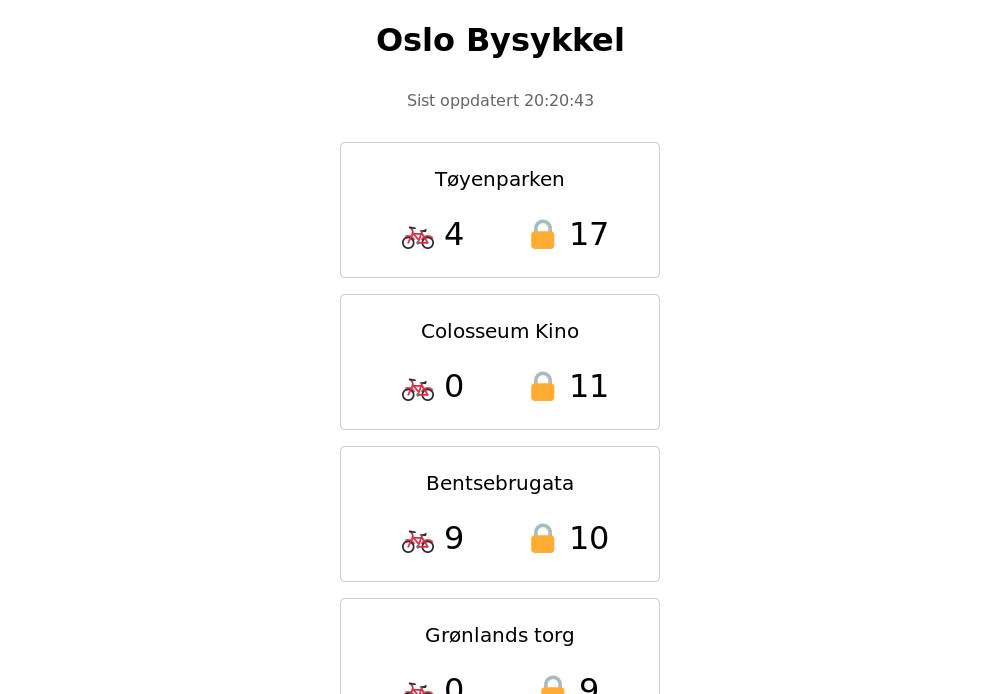
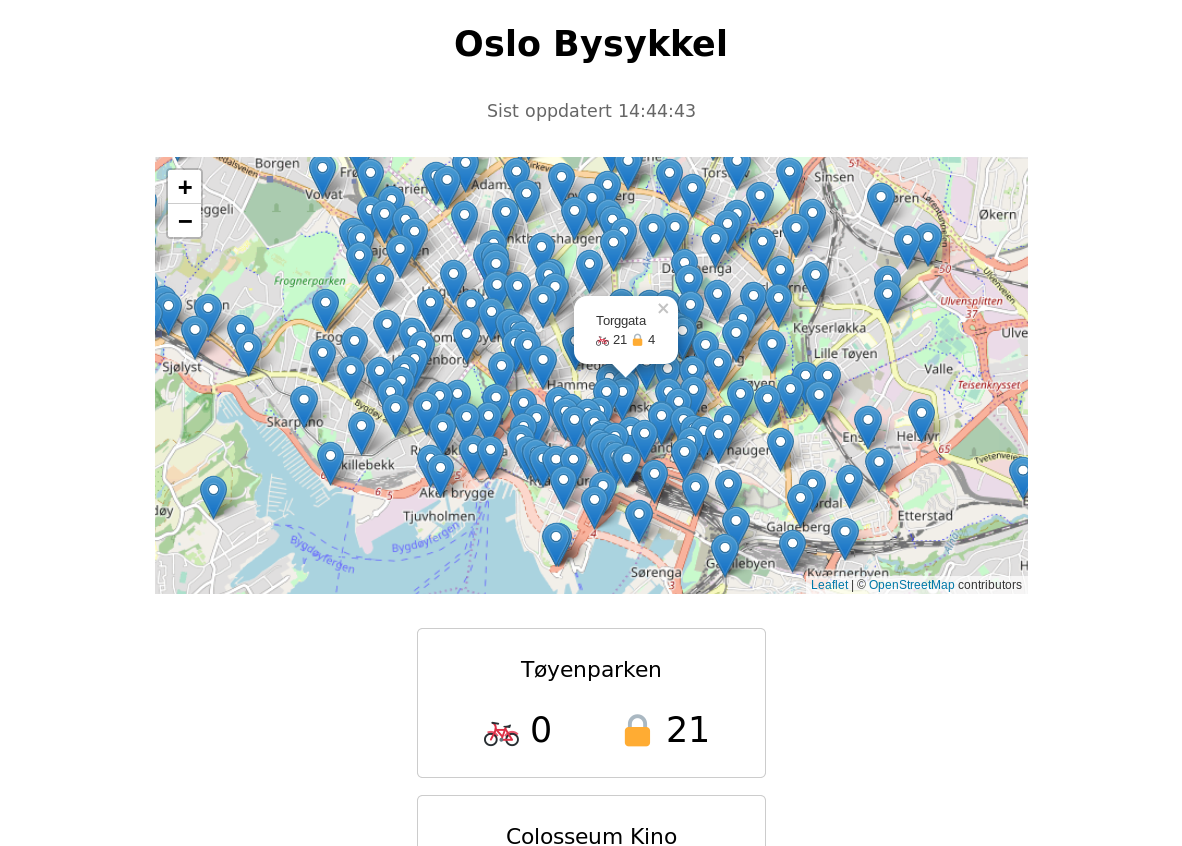
Add interactive map

diff --git a/src/App.vue b/src/App.vue
@@ -3,6 +3,16 @@
     <h1>Oslo Bysykkel</h1>
     <div class="app-status" v-html="status">
     </div>
+    <div class="map">
+      <l-map :zoom="zoom" :center="center">
+        <l-tile-layer :url="url" :attribution="attribution"></l-tile-layer>
+        <l-marker v-for="marker in markers"
+                  :lat-lng="marker.latlng"
+                  v-bind:key="marker.id">
+          <l-popup :content="marker.text"></l-popup>
+        </l-marker>
+      </l-map>
+    </div>
     <ul class="stations">
       <station v-for="station in stations"
                v-bind:station="station"
@@ -15,6 +25,7 @@
 <script>
  import Station from './components/Station.vue';
  import Vue from 'vue';
+ import { LMap, LTileLayer, LMarker, LPopup } from 'vue2-leaflet';
 
  /**
   * API URL base.
@@ -42,11 +53,14 @@
          return {
              status: 'Henter stasjoner …',
              stations: {},
+             zoom: 13,
+             center: L.latLng(59.919154, 10.746285),
+             url:'http://{s}.tile.osm.org/{z}/{x}/{y}.png',
+             attribution:'&copy; <a href="http://osm.org/copyright">OpenStreetMap</a> contributors',
+             markers: {},
          }
      },
-     components: {
-         Station,
-     },
+     components: { Station, LMap, LTileLayer, LMarker, LPopup },
      methods: {
          /**
           * Display the text `status` to the user.
@@ -64,6 +78,11 @@
                      json.data.stations.forEach(station => {
                          station.status = {};
                          Vue.set(this.stations, station.station_id, station);
+                         Vue.set(this.markers, station.station_id, {
+                             latlng: L.latLng(station.lat, station.lon),
+                             text: station.name,
+                             id: station.station_id,
+                         });
                      });
                  });
              });
@@ -75,8 +94,13 @@
          refreshStatus () {
              return fetch(statusURL).then(res => {
                  res.json().then(json => {
-                     json.data.stations.forEach(station => {
-                         Vue.set(this.stations[station.station_id], 'status', station);
+                     json.data.stations.forEach(status => {
+                         const station = this.stations[status.station_id];
+                         Vue.set(station, 'status', status);
+                         Vue.set(this.markers[status.station_id], 'text',
+                                 `${station.name}<br>
+                                  🚲 ${status.num_bikes_available}
+                                  🔒 ${status.num_docks_available}`);
                      });
 
                      const time = new Date().toLocaleTimeString('nb');
@@ -108,6 +132,12 @@
  .app-status {
      margin: 2rem;
      color: #666;
+ }
+
+ .map {
+     margin: 2rem auto;
+     max-width: 800px;
+     height: 400px;
  }
 
  @keyframes pulse {

diff --git a/public/index.html b/public/index.html
@@ -4,6 +4,7 @@
     <meta charset="utf-8">
     <meta http-equiv="X-UA-Compatible" content="IE=edge">
     <meta name="viewport" content="width=device-width,initial-scale=1.0">
+    <link rel="stylesheet" href="//unpkg.com/leaflet/dist/leaflet.css">
     <title>Oslo Bysykkel</title>
   </head>
   <body>
